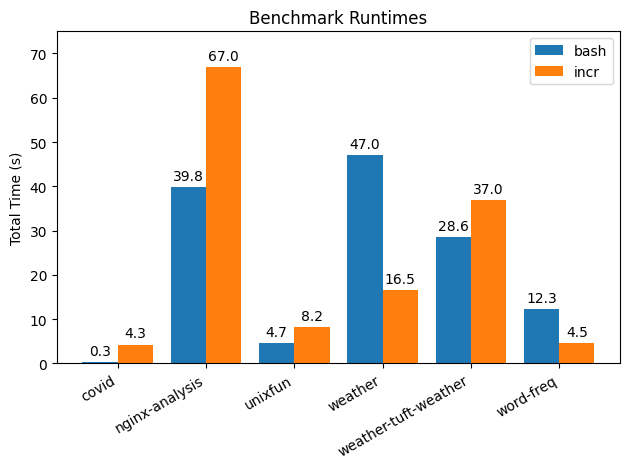
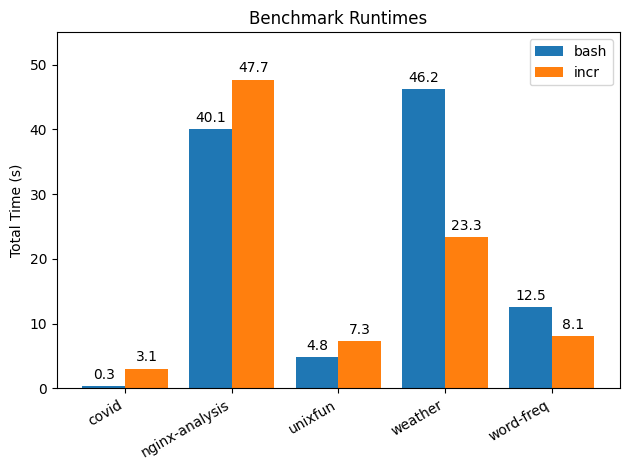
new script

diff --git a/evaluation/benchmarks/weather/scripts/plot.py b/evaluation/benchmarks/weather/scripts/plot.py
@@ -12,12 +12,13 @@ from pathlib import Path
 import warnings
 warnings.filterwarnings("ignore", message="No artists with labels found to put in legend.*")
 
+plot_dir = os.getenv("plot_dir")
 cntr = 0
 def save_sofar(plt, filename):
     global cntr
     plt.legend(loc='upper left')
-    plt.savefig(f"plots/tmp/{cntr}_{filename}.png", bbox_inches='tight')
-    out_dir = Path("plots/tmp")
+    plt.savefig(f"{plot_dir}/tmp/{cntr}_{filename}.png", bbox_inches='tight')
+    out_dir = Path(f"{plot_dir}/tmp")
     out_dir.mkdir(parents=True, exist_ok=True)
 
     plt.legend(loc="upper left")

diff --git a/evaluation/analysis/plot.py b/evaluation/analysis/plot.py
@@ -7,7 +7,6 @@ BENCHMARKS = [
     "nginx-analysis",
     "unixfun",
     "weather",
-    "weather-tuft-weather",
     "word-freq",
 ]
 
@@ -35,7 +34,7 @@ axes.set_title("Benchmark Runtimes")
 axes.set_xticks(locations)
 axes.set_xticklabels(BENCHMARKS, rotation=30, ha="right")
 axes.set_ylabel("Total Time (s)")
-axes.set_ylim(0, 75)
+axes.set_ylim(0, 55)
 axes.bar_label(bash_bars, padding=3, fmt="%.1f")
 axes.bar_label(incr_bars, padding=3, fmt="%.1f")
 axes.legend()
